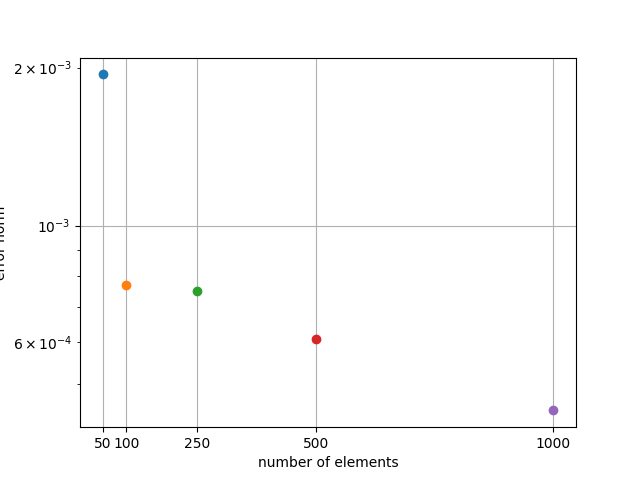
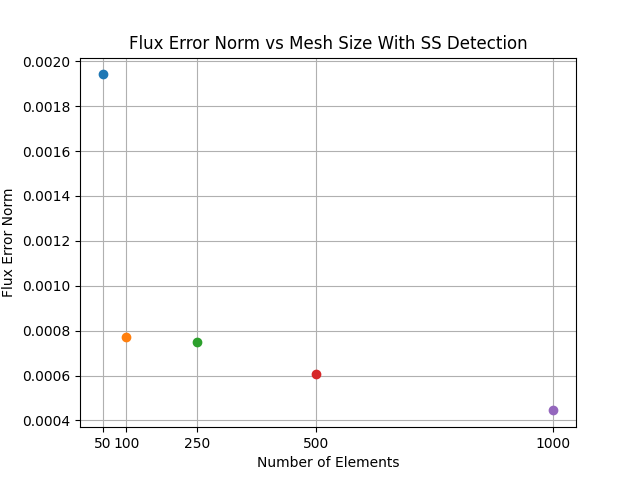
most recent results for 200 picard iterations, no mesh template

diff --git a/simulations/visualization/no_ss_no_mesh_template/visualize_results.py b/simulations/visualization/no_ss_no_mesh_template/visualize_results.py
@@ -139,7 +139,7 @@ for n in n_elems:
     plt.plot(xx[n],ratios_temp_num_to_analy[n],label=f"{n} x-elem")
 plt.xlabel("X Coordinate [cm]")
 plt.ylabel(r"Numerical $T(x)$ to Analytical $T(x)$ Ratio")
-plt.title(f"Ratio Numerical to Analytical Temp All Meshes")
+plt.title(f"Ratio Numerical to Analytical Temp All Meshes. 200 Picard Iterations")
 plt.legend(ncol=2)
 plt.grid()
 plt.savefig("temp_num_to_analy_ratios.png")
@@ -150,7 +150,7 @@ for n in n_elems:
     plt.plot(xx[n],ratios_flux_num_to_analy[n],label=f"{n} x-elem")
 plt.xlabel("X Coordinate [cm]")
 plt.ylabel(r"Numerical $\phi(x)$ to Analytical $\phi(x)$ Ratio")
-plt.title(f"Ratio Numerical to Analytical Flux All Meshes")
+plt.title(f"Ratio Numerical to Analytical Flux All Meshes. 200 Picard Iterations")
 plt.legend(ncol=2)
 plt.grid()
 plt.savefig("flux_num_to_analy_ratios.png")
@@ -190,8 +190,9 @@ for n in n_elems:
 
 for n in n_elems:
     plt.plot([n],[error_norm[n]],'-o',label=f"{n}")
-plt.xlabel("number of elements")
-plt.ylabel("error norm")
+plt.xlabel("Number of Elements")
+plt.ylabel("Flux Error Norm")
+plt.title("Flux Error Norm vs Mesh Size for 200 Picard Iterations")
 plt.xticks([n for n in n_elems])
 plt.grid()
 plt.savefig("flux_error_norms.png")

diff --git a/simulations/visualization/no_mesh_template/visualize_results.py b/simulations/visualization/no_mesh_template/visualize_results.py
@@ -189,9 +189,9 @@ for n in n_elems:
 
 for n in n_elems:
     plt.plot([n],[error_norm[n]],'-o',label=f"{n}")
-plt.xlabel("number of elements")
-plt.ylabel("error norm")
-plt.yscale("log")
+plt.xlabel("Number of Elements")
+plt.ylabel("Flux Error Norm")
+plt.title("Flux Error Norm vs Mesh Size With SS Detection")
 plt.xticks([n for n in n_elems])
 plt.grid()
 plt.savefig("flux_error_norms.png")
